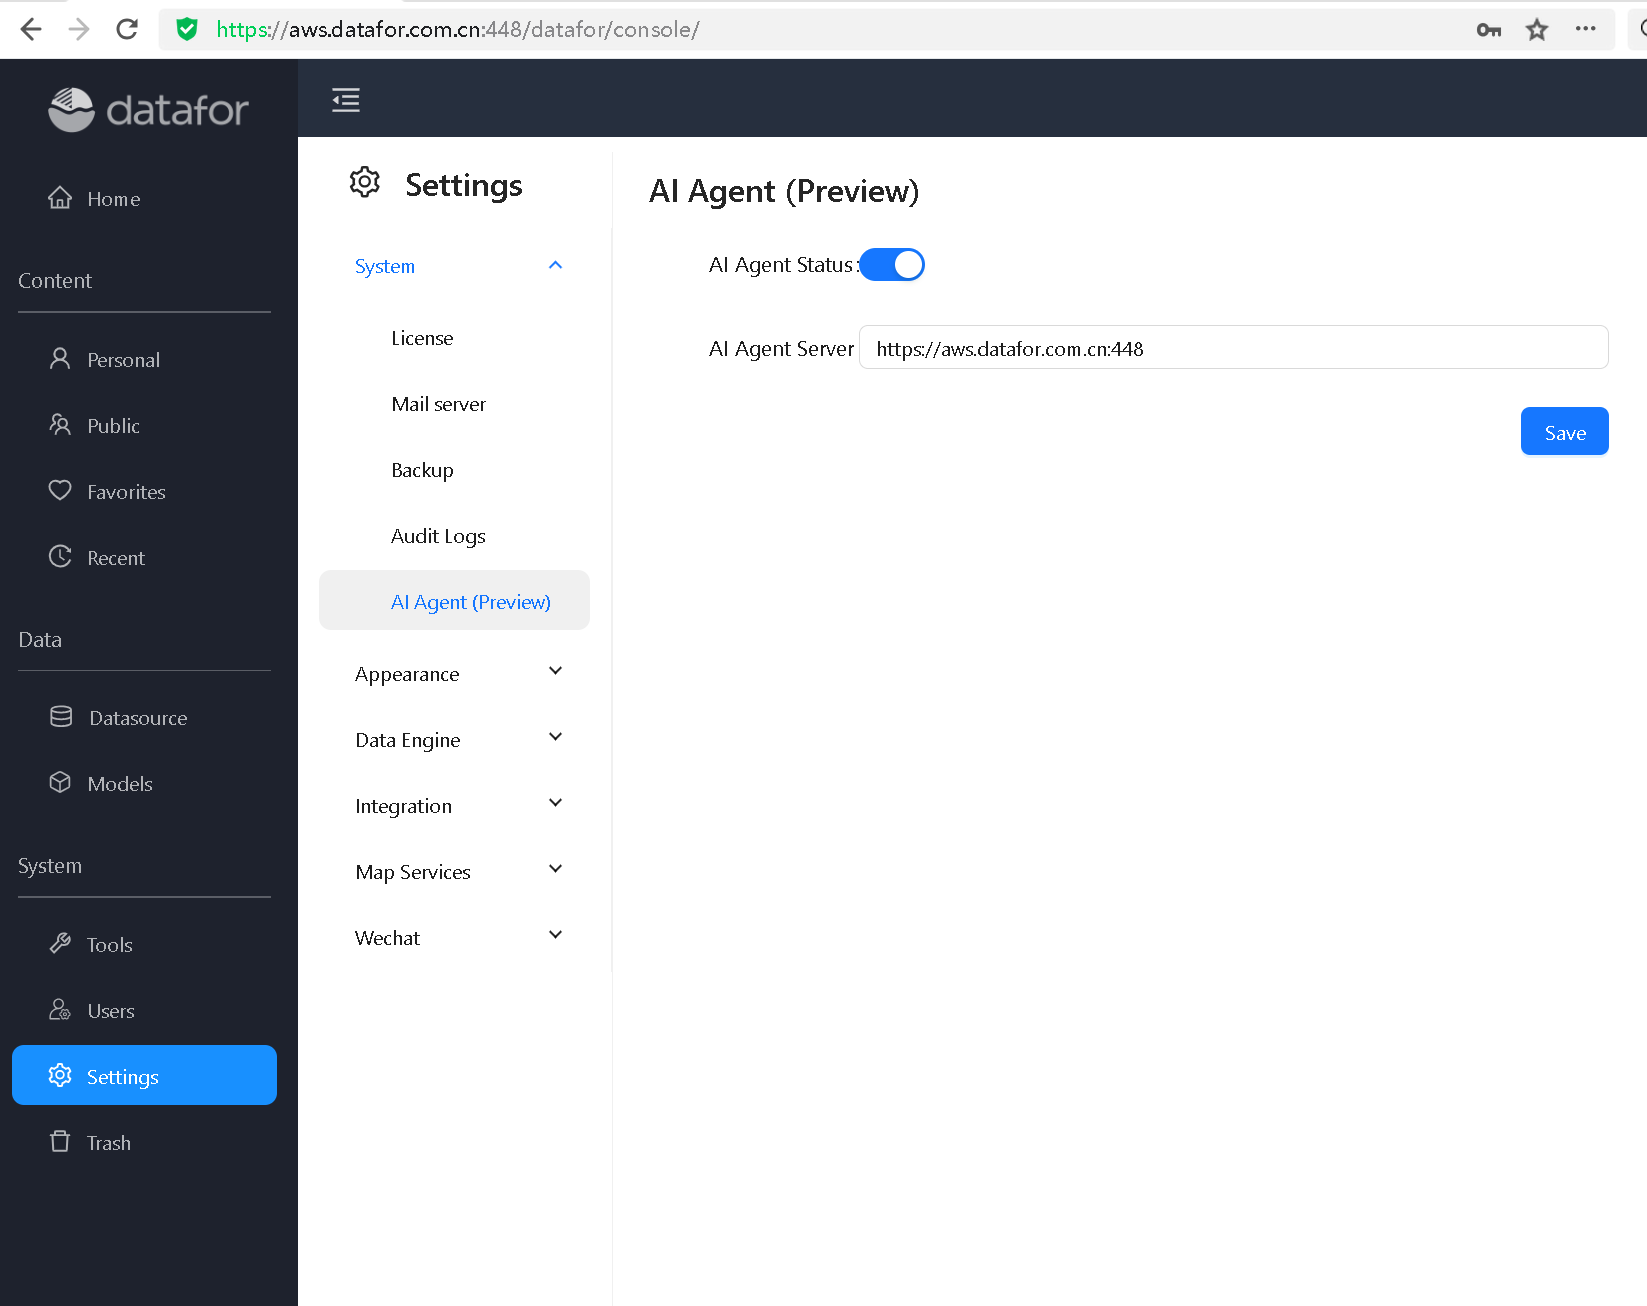
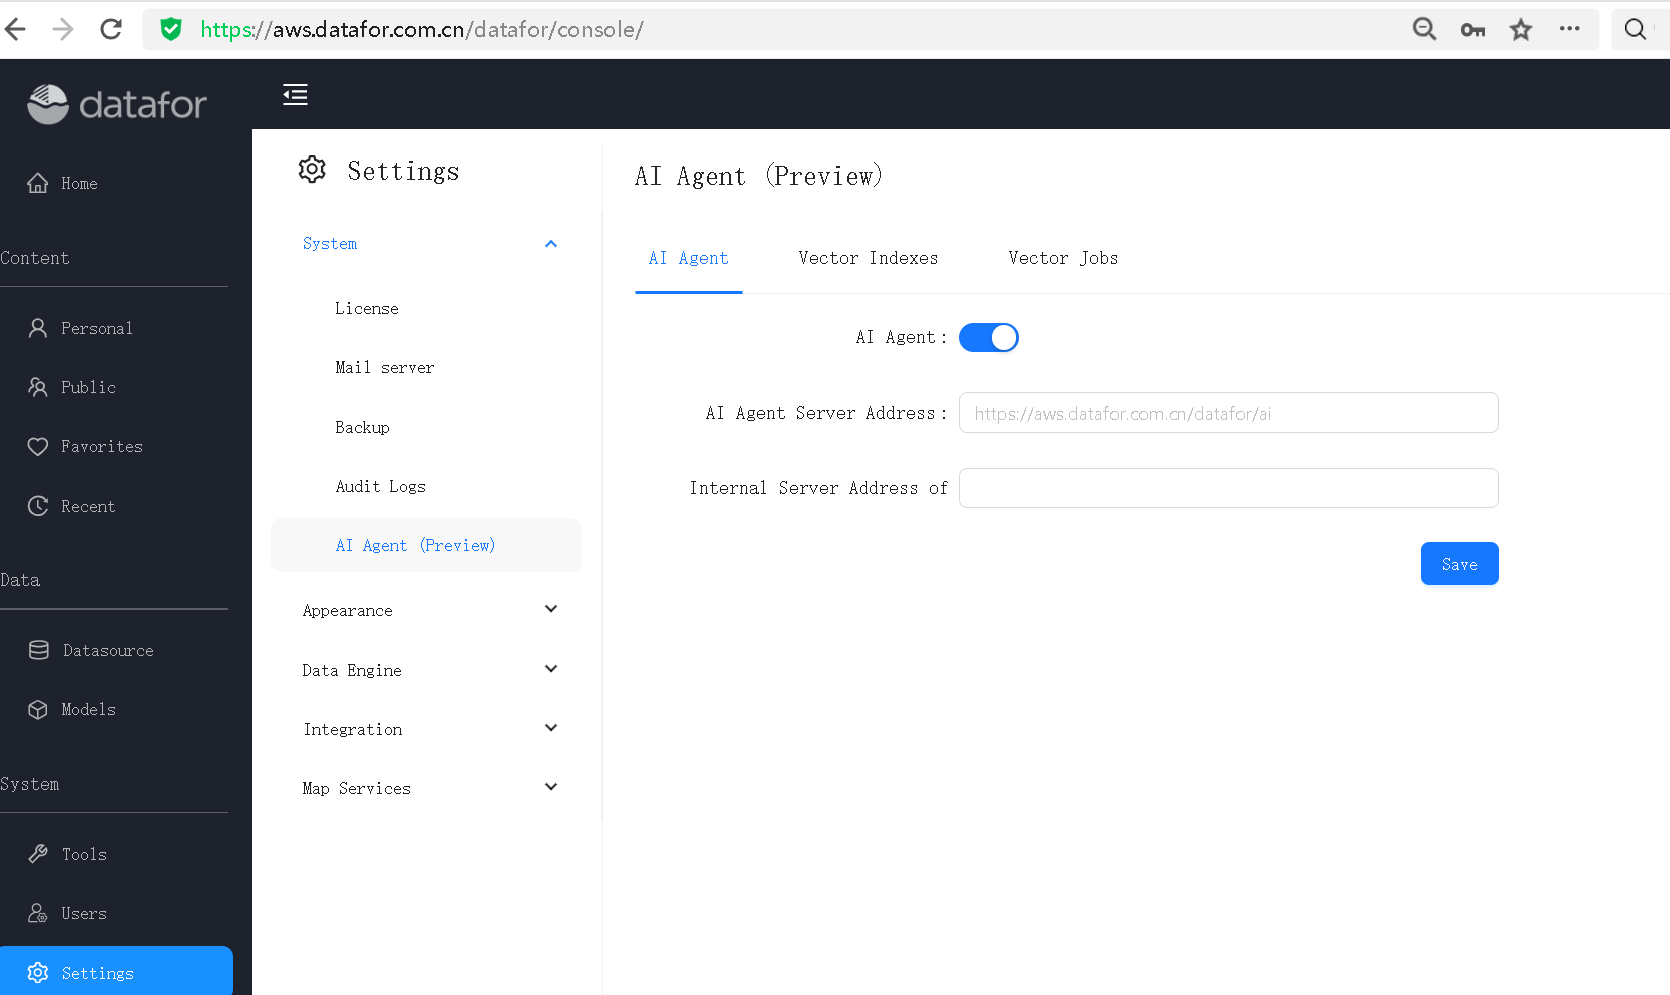
ai部署nginx配置
部署更新

api更新

diff --git a/docs/documentation/AI-Agent/05-How to Enable AI Feature.md b/docs/documentation/AI-Agent/05-How to Enable AI Feature.md
@@ -33,28 +33,49 @@ If you are **not using a reverse proxy** (such as Nginx), you can keep the defau
 If you are using **Nginx** as a reverse proxy, add the following block to your configuration to support AI features:
 
 ```nginx
-location ~ ^/(chat|llm|configure|prompt|user) {
-    client_max_body_size 1000m;
-    client_body_buffer_size 128k;
-    fastcgi_intercept_errors on;
-    proxy_pass http://localhost:28081;
-    proxy_redirect http:// https://;
+server {
+        listen       443 ssl http2;
+        server_name  xxx.xxx.com;
+        charset utf-8;
+        ssl_certificate      /xxx/xxx.xxx.com.pem;
+        ssl_certificate_key  /xxx/xxx.xxx.com.key;
 
-    proxy_set_header Host $host:$server_port;
-    proxy_set_header X-Real-IP $remote_addr;
-    proxy_set_header X-Real-PORT $remote_port;
-    proxy_set_header X-Forwarded-For $proxy_add_x_forwarded_for;
-    proxy_set_header X-Forwarded-Proto $scheme;
+        ssl_session_cache    shared:SSL:1m;
+        #ssl_session_timeout  5m;
+
+        ssl_ciphers  HIGH:!aNULL:!MD5;
+        ssl_prefer_server_ciphers  on;
+        location /datafor/ai/mcp_chat/start {
+            proxy_pass http://localhost:28080/datafor/ai/mcp_chat/start;
+            proxy_buffering off;
+            proxy_http_version 1.1;
+            proxy_cache off;
+            proxy_read_timeout 3600s;
+            proxy_send_timeout 3600s;
+            proxy_set_header X-Accel-Buffering no;
+            proxy_set_header Connection '';
+        }
+        location / {
+            client_max_body_size 1000m;
+            client_body_buffer_size 128k;
+            fastcgi_intercept_errors on;
+            proxy_pass http://localhost:28080/;
+            proxy_redirect http:// https://;
+            proxy_set_header Host $host:$server_port;
+            proxy_set_header X-Real-IP $remote_addr;
+            proxy_set_header X-Real-PORT $remote_port;
+            proxy_set_header X-Forwarded-For $proxy_add_x_forwarded_for;
+        }
 }
 ```
 
 ### Notes:
 
 * `client_max_body_size 1000m;` allows large payloads required for AI operations.
-* `proxy_pass` should point to your backend AI service (e.g., `http://localhost:28081`).
 * The header settings ensure that client and protocol information is correctly forwarded.
 
-When using Nginx, set the **AI Agent Server Address** to the **proxy URL**.
+Set the **AI Agent Server Address** .
+It is recommended to leave this field blank.
 
 <div align="left"><img src="./images/proxy.png" /></div>  
 

diff --git a/docs/api/Token/Generate a token.md b/docs/api/Token/Generate a token.md
@@ -18,7 +18,7 @@ Use of this API requires authentication. For details about the authentication me
 [Authorization](/api/index/#_5-authentication-security).
 
 **Content Type**  
-`application/x-www-form-urlencoded`
+`application/json`
 
 ---
 
@@ -32,15 +32,41 @@ Use of this API requires authentication. For details about the authentication me
 ```yaml
 name: ERP
 privateKey: abcd
-username: admin
+payload:
+  username: admin
+  name: ERP
+  roles:
+    - SYS_CREATOR
+    - Manager
+  inituser: string
+  password: string
+  company: string
+  dept: string
+  email: string
+  description: string
+  title: string
+  dob: string
+  mobile: string
 ```
 
 | Name         | Location | Type     | Required | Description                             |
 |--------------|----------|----------|----------|-----------------------------------------|
-| body         | body     | object   | no       | The main data object for generating the token. |
-| ├── name     | body     | string   | no       | Name of the token. |
-| ├── privateKey | body   | string   | no       | Private key associated with the token. |
-| ├── username | body     | string   | no       | Username for token generation. |
+| body         | body     | object   | yes      | The main data object for generating the token. |
+| ├── name     | body     | string   | yes      | Name of the token. |
+| ├── privateKey | body   | string   | yes      | Private key associated with the token. |
+| ├── payload  | body     | object   | yes      | The payload object containing user and role info. |
+| &emsp;├── username   | body | string | yes    | Username for token generation. |
+| &emsp;├── name       | body | string | no     | User's name. |
+| &emsp;├── roles      | body | array(string) | no | List of user roles. |
+| &emsp;├── inituser   | body | string | no     | Initial user. |
+| &emsp;├── password   | body | string | no     | User password. |
+| &emsp;├── company    | body | string | no     | Company name. |
+| &emsp;├── dept       | body | string | no     | Department name. |
+| &emsp;├── email      | body | string | no     | Email address. |
+| &emsp;├── description | body | string | no    | Description. |
+| &emsp;├── title      | body | string | no     | Title. |
+| &emsp;├── dob        | body | string | no     | Date of birth. |
+| &emsp;└── mobile     | body | string | no     | Mobile number. |
 
 ---
 

diff --git a/docs/documentation/Setup/20 Centos安装.md b/docs/documentation/Setup/20 Centos安装.md
@@ -11,12 +11,20 @@ To begin the installation, switch to the root user by running:
 
 ```bash
 sudo su root
+yum install unzip procps-ng glibc-langpack-en -y
 ```
 
 **Console Output Example:**
 
 ```
 [centos@ip-172-31-33-203 ~]$ sudo su root
+[root@ip-172-31-33-203 centos]# yum install unzip procps-ng glibc-langpack-en -y
+Package unzip-6.0-48.el8_10.x86_64 is already installed.
+Package procps-ng-3.3.15-14.el8.x86_64 is already installed.
+Package glibc-langpack-en-2.28-251.el8_10.31.x86_64 is already installed.
+Dependencies resolved.
+Nothing to do.
+Complete!
 [root@ip-172-31-33-203 centos]#
 ```
 
@@ -184,5 +192,10 @@ After installation, access the Datafor web interface using:
 ------
 
 # Updating the System
-
-To update Datafor, place the update package (e.g., `Datafor-update.jar`) in the `bi-server/update` folder and restart the system.
+1. Place the update package `datafor-update.jar` in the `bi-server/update` directory.
+2. Run `./stop-server.sh` to stop the service.
+3. From version 8.1 onwards:
+  - If you need to update configurations, run `./update.sh`.
+  - This will create a backup folder containing a `change-list.md` file with details of script and configuration changes.
+  - If you do not need to modify the default configuration, you can skip this step and proceed directly to the next step.
+4. Run `./start-server.sh` to start the service.Note: Running start-server.sh will also automatically apply the update from datafor-update.jar in the update directory.

diff --git a/docs/documentation/Setup/40 Windows安装.md b/docs/documentation/Setup/40 Windows安装.md
@@ -21,32 +21,6 @@ Log in to Windows as an **Administrator**.
    stop-server.bat
    ```
 
-## Method 2: Run Datafor as a Service
-
-1. Install the service for the first time by double-clicking:
-
-   ```
-   install-service.bat
-   ```
-
-2. Start the service by double-clicking:
-
-   ```
-   start-service.bat
-   ```
-
-3. Stop the service by double-clicking:
-
-   ```
-   stop-service.bat
-   ```
-
-4. Uninstall the service by double-clicking:
-
-   ```
-   delete-service.bat
-   ```
-
 ## Login
 
 URL:  `http://<server-ip>:28080/`
@@ -56,6 +30,12 @@ username  /  password
 - `admin` / `password`
 - `demo` / `demo`
 
-## Update the System
+### Update the System
 
-Place the update package `Datafor-update.jar` in the `bi-server\update` folder and restart the system.
+1. Place the update package `datafor-update.jar` in the `bi-server\update` directory.
+2. Run `stop-server.bat` to stop the service.
+3. From version 8.01 onwards:
+   - If you need to update configurations, run `update.bat`.
+   - This will create a backup folder containing a `change-list.md` file with details of script and configuration changes.
+   - If you do not need to modify the default configuration, you can skip this step and proceed directly to the next step.
+4. Run `start-server.bat` to start the service.Note: Running start-server.bat will also automatically apply the update from datafor-update.jar in the update directory.

diff --git a/docs/documentation/Setup/30 Ubuntu安装.md b/docs/documentation/Setup/30 Ubuntu安装.md
@@ -11,6 +11,8 @@ To begin the installation, switch to the root user by running:
 
 ```bash
 sudo su
+apt update
+apt install -y unzip procps locales
 ```
 
 ## Step 2: Create the `biadmin` User
@@ -108,4 +110,10 @@ After installation, access the Datafor web interface using:
 
 # Updating the System
 
-To update Datafor, place the update package (e.g., `Datafor-update.jar`) in the `bi-server/update` folder and restart the system.
+1. Place the update package `datafor-update.jar` in the `bi-server/update` directory.
+2. Run `./stop-server.sh` to stop the service.
+3. From version 8.1 onwards:
+  - If you need to update configurations, run `./update.sh`.
+  - This will create a backup folder containing a `change-list.md` file with details of script and configuration changes.
+  - If you do not need to modify the default configuration, you can skip this step and proceed directly to the next step.
+4. Run `./start-server.sh` to start the service.Note: Running start-server.sh will also automatically apply the update from datafor-update.jar in the update directory.

diff --git a/docs/api/Token/Add or modify a token configuration.md b/docs/api/Token/Add or modify a token configuration.md
@@ -1,6 +1,6 @@
 ---
-title: Add or modify a token
-permalink: /api/Token/Add or modify a token/
+title: Add or modify a token configuration
+permalink: /api/Token/Add or modify a token configuration/
 tags: ["api","Authentication","Token"]
 description: 
 ---
@@ -18,7 +18,7 @@ Use of this API requires authentication. For details about the authentication me
 [Authorization](/api/index/#_5-authentication-security).
 
 **Content Type**  
-`application/x-www-form-urlencoded`
+`application/json`
 
 ---
 
@@ -49,7 +49,7 @@ Use of this API requires authentication. For details about the authentication me
 }
 ```
 
-### **Body Parameters Schema**
+### **Body Request Schema**
 
 | Name           | Type       | Required | Description                                        |
 |---------------|------------|---------:|--------------------------------------------------|

diff --git a/docs/api/Token/Delete a token configuration.md b/docs/api/Token/Delete a token configuration.md
@@ -1,6 +1,6 @@
 ---
-title: Delete a token
-permalink: /api/Token/Delete a token/
+title: Delete a token configuration
+permalink: /api/Token/Delete a token configuration/
 tags: ["api","Authentication","Token"]
 description: 
 ---

diff --git a/docs/api/Token/Delete token configurations.md b/docs/api/Token/Delete token configurations.md
@@ -1,6 +1,6 @@
 ---
-title: Delete tokens
-permalink: /api/Token/Delete tokens/
+title: Delete token configurations
+permalink: /api/Token/Delete token configurations/
 tags: ["api","Authentication","Token"]
 description: 
 ---

diff --git a/docs/api/Token/Get token configurations.md b/docs/api/Token/Get token configurations.md
@@ -1,6 +1,6 @@
 ---
-title: Get token list
-permalink: /api/Token/Get token list/
+title: Get token configurations
+permalink: /api/Token/Get token configurations/
 tags: ["api","Authentication","Token"]
 description: 
 ---
